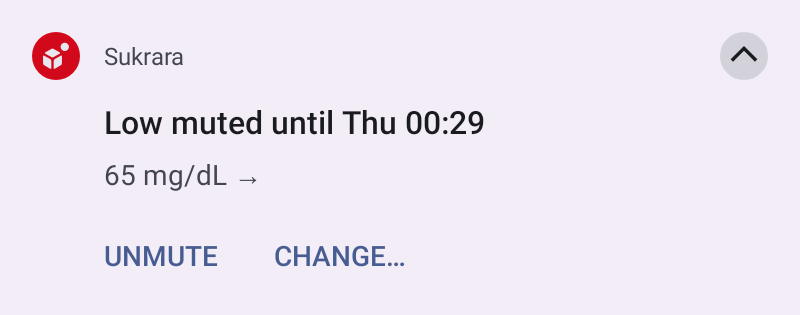
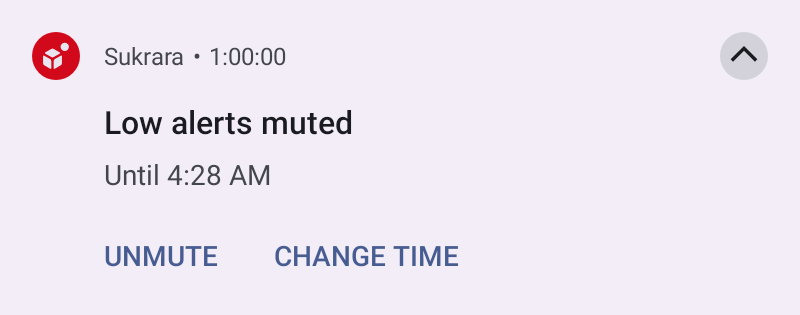
Docs: f31 renders of the counting-down muted notification, home and settings
Synthetic data (Robolectric).

Claude-Session: https://claude.ai/code/session_01EihVQZCnvXp7Jq9t2Dg1mv

diff --git a/docs/FEATURES.md b/docs/FEATURES.md
@@ -42,9 +42,9 @@ Rules: [spikes/alerts/SPEC.md](../spikes/alerts/SPEC.md); timelines: [spikes/ale
 
 <p>
   <img src="img/notification/alert-actions.png" alt="A low alert with exactly two actions: Mute… and Relax (Robolectric render, synthetic data)" width="300">
-  <img src="img/notification/alert-muted.png" alt="After Mute…: the silent 'Low muted until' notification with Unmute and Change…" width="300">
-  <img src="img/home/mute-alerts.png" alt="Home card with Mute all on: the Muted · 2h pill and 'Alerts muted until 01:29' with Turn alerts back on and Change" width="230">
-  <img src="img/settings/alerts-from-notification.png" alt="Settings › Alerts › From the notification: Mute… first length 30 min, Relax every 30 min until back in range, the margin 10 mg/dL for 10 min" width="300">
+  <img src="img/notification/alert-muted.png" alt="After Mute…: the silent Low alerts muted notification counting down, Until 4:28 AM, with Unmute and Change time" width="300">
+  <img src="img/home/mute-alerts.png" alt="Home card with Mute all on: the Muted pill and Alerts muted with the time left, Unmute and Change time" width="230">
+  <img src="img/settings/alerts-from-notification.png" alt="Settings › Alerts › From the notification: Mute: suggested time 30 min, Remind less every 30 min until back in range, the margin 10 mg/dL for 10 min" width="300">
 </p>
 
 - **States and exits** (rounds f29, f30; SPEC §2 "States and exits"; scenarios `actions.txt`, `exits.txt`, `devices.txt`; Android `AlertMuteTest`, `AlertExitsTest`, `MuteAllGallery`, `QuietGallery` read back the posted notifications; Mac `-alerts-selftest` notification checks on the real `Alerts` class). Every way out acts on this device only and updates history, badge, widgets and ring at once.

diff --git a/docs/index.md b/docs/index.md
@@ -42,7 +42,7 @@ source**), then **Install**. [Obtainium](https://obtainium.imranr.dev/) can keep
 </p>
 <p>
   <img src="img/notification/alert-actions.png" alt="A low alert with two actions: Mute… and Relax" width="300">
-  <img src="img/notification/alert-muted.png" alt="After Mute…: the alert says Low muted until 3:24 AM, with Unmute and Change…" width="300">
+  <img src="img/notification/alert-muted.png" alt="After Mute…: Low alerts muted, counting down to 4:28 AM, with Unmute and Change time" width="300">
 </p>
 <p>
   <img src="img/settings/settings.png" alt="Settings: search, the share-with-your-clinic banner and sections with coloured icons" width="180">
